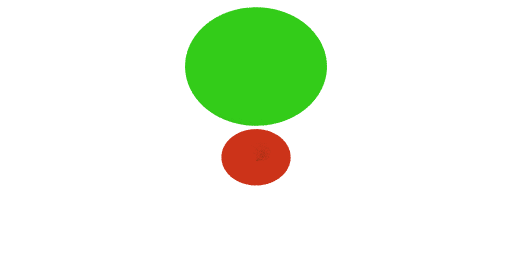
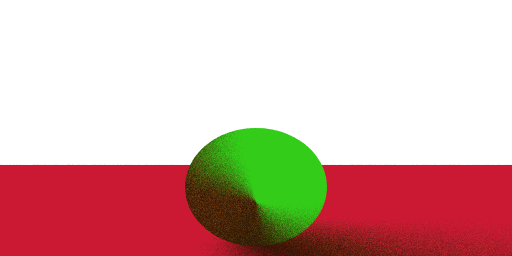
Fix the display of triangles

diff --git a/RayTracing/src/Application.cpp b/RayTracing/src/Application.cpp
@@ -4,6 +4,7 @@
 #include "World.h"
 
 #include "Geometry.h"
+#include "glm/gtx/norm.hpp"
 
 int main() {
 	int const Width = 512, Height = 256;
@@ -11,22 +12,28 @@ int main() {
 	Camera cam(glm::vec3(0.0f), glm::vec3(1.0f, 0.0f, 0.0f),
 		glm::vec3(0.0f, 1.0f, 0.0f), 1.5f, 1.0472f);
 	World world(cam, glm::vec3(1.0f));
-	std::shared_ptr<Geometry> ball1(new Ball(glm::vec3(1.0f, 0.26f, 0.0f), 0.25f));
+	std::shared_ptr<Geometry> ball1(new Ball(glm::vec3(1.0f, -0.25f, 0.0f), 0.25f));
 	ball1->AddMaterial(std::shared_ptr<Material>(new Diffuse(glm::vec3(0.2f, 0.8f, 0.1f))));
 	world.AddGeo(ball1);
-	std::shared_ptr<Geometry> ball2(new Ball(glm::vec3(2.0f, -0.26f, 0.0f), 0.25f));
-	ball2->AddMaterial(std::shared_ptr<Material>(new Diffuse(glm::vec3(0.8f, 0.2f, 0.1f))));
-	world.AddGeo(ball2);
-//	std::shared_ptr<Geometry> fl1(new Triangle(glm::vec3(-1.0f, -1.0f, -1.0f), glm::vec3(1.0f, 1.0f, -1.0f), glm::vec3(1.0f, 1.0f, 1.0f)));
-//	fl1->AddMaterial(std::shared_ptr<Material>(new Diffuse(glm::vec3(0.8f, 0.1f, 0.2f))));
-//	world.AddGeo(fl1);
+//	std::shared_ptr<Geometry> ball2(new Ball(glm::vec3(2.0f, -0.26f, 0.0f), 0.25f));
+	//ball2->AddMaterial(std::shared_ptr<Material>(new Diffuse(glm::vec3(0.8f, 0.2f, 0.1f))));
+	//world.AddGeo(ball2);
+	float fh = -0.5f;
+	std::shared_ptr<Geometry> fl1(new Triangle(glm::vec3(-3.0f, fh, -3.0f), glm::vec3(3.0f, fh, 3.0f), glm::vec3(3.0f, fh, -3.0f)));
+	fl1->AddMaterial(std::shared_ptr<Material>(new Diffuse(glm::vec3(0.8f, 0.1f, 0.2f))));
+	world.AddGeo(fl1);
+	std::shared_ptr<Geometry> fl2(new Triangle(glm::vec3(-3.0f, fh, -3.0f), glm::vec3(-3.0f, fh, 3.0f), glm::vec3(3.0f, fh, 3.0f)));
+	fl2->AddMaterial(std::shared_ptr<Material>(new Diffuse(glm::vec3(0.8f, 0.1f, 0.2f))));
+	world.AddGeo(fl2);
 	std::vector<Ray> rays;
 	int nrays = 32;
 	for (int i = 0; i < Width; ++i) {
 		for (int j = 0; j < Height; ++j) {
 			cam.GenRay(i, j, Width, Height, rays, nrays);
 			auto col = glm::vec3(0.0f);
+			//std::cout << i << ' ' << j << std::endl;
 			for (auto ray : rays) {
+				assert(glm::l2Norm(ray.GetPos()) < 1e-4);
 				col += world.RayTracing(ray);
 			}
 			img.Setcol(i, j, col / (float)nrays, true);

diff --git a/RayTracing/src/Triangle.cpp b/RayTracing/src/Triangle.cpp
@@ -1,11 +1,13 @@
 #include "Triangle.h"
 
 #include <iostream>
+#include "glm/gtx/norm.hpp"
+#include "glm/gtx/projection.hpp"
 
 Triangle::Triangle(glm::vec3 v1, glm::vec3 v2, glm::vec3 v3, glm::vec3 norm)
 	:m_Vertices{v1, v2, v3}, m_Norm(norm) {
-	if (norm == glm::vec3(0.0f)) {
-		norm = ComputeTriangNorm(v1, v2, v3);
+	if (glm::l2Norm(norm) < 1e-8) {
+		m_Norm = ComputeTriangNorm(v1, v2, v3);
 	}
 }
 
@@ -14,7 +16,7 @@ glm::vec3 Triangle::GetPos(size_t ind)
 	if (ind >= 3) {
 		std::cout << "Triangle::getpos Out of range" << std::endl;
 	}
-	return m_Vertices[ind];
+	return *(m_Vertices + ind);
 }
 
 bool Triangle::OnTriangle(glm::vec3 pos)
@@ -22,13 +24,13 @@ bool Triangle::OnTriangle(glm::vec3 pos)
 	auto ed1 = m_Vertices[1] - m_Vertices[0], ed2 = m_Vertices[2] - m_Vertices[0];
 	auto vec = pos - m_Vertices[0];
 	auto fsthf = glm::cross(ed1, vec), sechf = glm::cross(vec, ed2);
-	if (fsthf.x * sechf.x < 0 || fsthf.y * sechf.y < 0 || fsthf.z * sechf.z < 0)
+	if (fsthf.x * sechf.x < -1e-6 || fsthf.y * sechf.y < -1e-6 || fsthf.z * sechf.z < -1e-6)
 		return false;
 	ed1 = -ed1;
 	ed2 = m_Vertices[2] - m_Vertices[1];
 	vec = pos - m_Vertices[1];
 	fsthf = glm::cross(ed1, vec), sechf = glm::cross(vec, ed2);
-	if (fsthf.x * sechf.x < 0 || fsthf.y * sechf.y < 0 || fsthf.z * sechf.z < 0)
+	if (fsthf.x * sechf.x < -1e-6 || fsthf.y * sechf.y < -1e-6 || fsthf.z * sechf.z < -1e-6)
 		return false;
 	return true;
 }

diff --git a/RayTracing/src/Ray.cpp b/RayTracing/src/Ray.cpp
@@ -34,13 +34,29 @@ float Ray::Hit(Geometry* geo)
 	}
 	case GeoType::Triangle: {
 		auto* triangle = static_cast<Triangle*> (geo);
-	
-		glm::vec3 pp = glm::perp(triangle->GetPos(0) - m_Pos, triangle->GetNorm(m_Pos));
-		float cosval = glm::dot(pp, m_Dir) / glm::l2Norm(pp) / glm::l2Norm(m_Dir);
-		float sinval = sqrt(1 - cosval * cosval);
-		float dist = glm::l2Norm(pp) / sinval;
-		if (triangle->OnTriangle(m_Pos + m_Dir * dist))
+		glm::vec3 norm = triangle->GetNorm(m_Pos);
+		glm::vec3 pp = glm::proj(triangle->GetPos(0) - m_Pos, norm);
+		if (glm::l2Norm(pp) < 1e-6) {
+			// Too close to the triangle
+			return std::numeric_limits<float>::max();
+		}
+		if (pp.x * norm.x > 0 || pp.y * norm.y > 0 || pp.z * norm.z > 0) {
+			// In the back of the triangle
+			return std::numeric_limits<float>::max();
+		}
+		float cosval = glm::dot(pp, m_Dir) / glm::l2Norm(pp);
+		if (cosval <= 1e-6) {
+			// Leaving or perpendicular to the plane of the triangle
+			return std::numeric_limits<float>::max();
+		}
+		float dist = glm::l2Norm(pp) / cosval;
+		glm::vec3 pos = m_Pos + m_Dir * dist;
+		glm::vec3 vec = pos - triangle->GetPos(0);
+		float val = glm::l2Norm(glm::proj(vec, norm));
+		assert(val < 1e-4);
+		if (triangle->OnTriangle(m_Pos + m_Dir * dist)) {
 			return dist;
+		}
 		else return std::numeric_limits<float>::max();
 	}
 	default: {

diff --git a/RayTracing/src/World.cpp b/RayTracing/src/World.cpp
@@ -4,15 +4,11 @@
 #include <iostream>
 
 #include "Random.h"
+#include "Testtool.hpp"
 
 void World::AddGeo(std::shared_ptr<Geometry> geo)
 {
 	m_Geos.push_back(geo);
-}
-
-std::ostream& operator<<(std::ostream& stm, glm::vec3 vec) {
-	stm << vec.x << ' ' << vec.y << ' ' << vec.z;
-	return stm;
 }
 
 glm::vec3 World::RayTracing(Ray ray, int lev, glm::vec3 coef)
@@ -32,12 +28,12 @@ glm::vec3 World::RayTracing(Ray ray, int lev, glm::vec3 coef)
 		}
 	}
 	if (hitted != nullptr) {
-		//std::cout << "Hit something" << std::endl;
 		glm::vec3 hitpos = ray.GetPos() + ray.GetDir() * dist;
 		glm::vec3 att, wi, norm = hitted->GetNorm(hitpos);
 		std::shared_ptr<Material> mat = hitted->GetMaterial();
 		float poss = mat->scatter(hitpos, -ray.GetDir(),
 			norm, att, wi);
+		//std::cout << "Hittttttttttttttttttttttttt" << std::endl;
 		//std::cout << coef * att * glm::dot(wi, norm) / poss << std::endl;
 		return coef * mat->GetGlow() +
 			RayTracing(Ray(hitpos + wi * 1e-3f, wi), lev + 1, coef * att * glm::dot(wi, norm) / poss);

diff --git a/RayTracing/src/Material.cpp b/RayTracing/src/Material.cpp
@@ -9,10 +9,12 @@ float Diffuse::scatter(glm::vec3 pos, glm::vec3 wo, glm::vec3 norm, glm::vec3& a
     glm::vec3& wi)
 {
     wi = Random::GenVec(1.0f);
-    glm::vec3 ppnm = glm::normalize(glm::perp(norm + glm::vec3(0, 1, 0), norm));
-    if (glm::dot(ppnm, norm) < 0.95f) {
-        ppnm = glm::normalize(glm::perp(norm + glm::vec3(1, 0, 0), norm));
+    glm::vec3 ppnm = glm::perp(norm + glm::vec3(1, 0, 0), norm);
+    if (glm::l2Norm(ppnm) < 1e-6f) {
+        // norm = (1, 0, 0)
+        ppnm = glm::vec3(0, 1.0f, 0);
     }
+    else ppnm = glm::normalize(ppnm);
     wi = wi.y * norm + wi.x * ppnm + wi.z * glm::cross(norm, ppnm);
     attenuation = m_Albedo / pi;
     return glm::dot(norm, wi) / pi;

diff --git a/RayTracing/src/World.h b/RayTracing/src/World.h
@@ -9,7 +9,7 @@ public:
 	World() = delete;
 	World(Camera cam, glm::vec3 back = glm::vec3(0.0f)): m_Cam(cam), m_Background(back) {}
 	void AddGeo(std::shared_ptr<Geometry> geo);
-	glm::vec3 RayTracing(Ray ray, int lev = 0, glm::vec3 coef = glm::vec3(1.0f));
+	glm::vec3 RayTracing(Ray ray, int lev = 1, glm::vec3 coef = glm::vec3(1.0f));
 	Camera& Getcam() { return m_Cam; }
 private:
 	std::vector<std::shared_ptr<Geometry>> m_Geos;

diff --git a/RayTracing/src/Testtool.hpp b/RayTracing/src/Testtool.hpp
@@ -1,0 +1,11 @@
+#pragma once
+
+#include <iostream>
+#include "glm/vec3.hpp"
+
+std::ostream& operator<<(std::ostream& out, glm::vec3 vec) {
+	out << vec.x << ' ' << vec.y << ' ' << vec.z << std::endl;
+	return out;
+}
+
+
